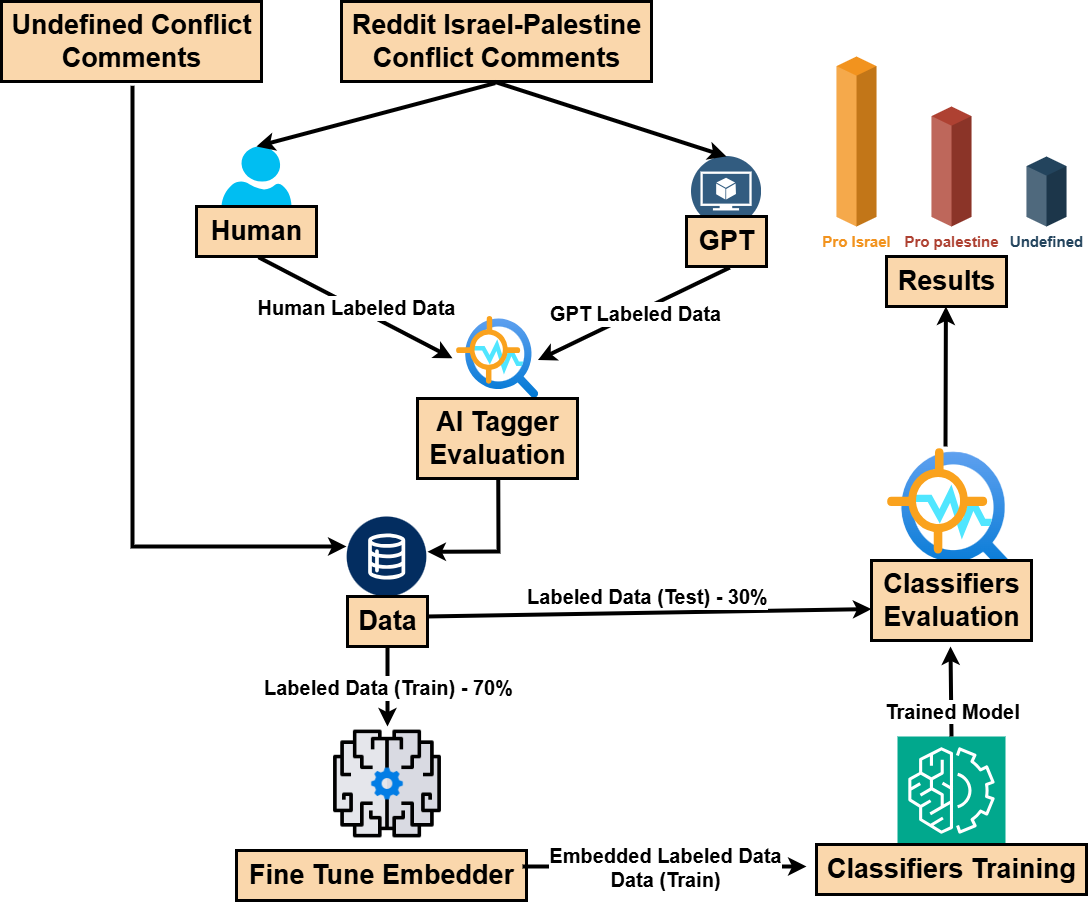
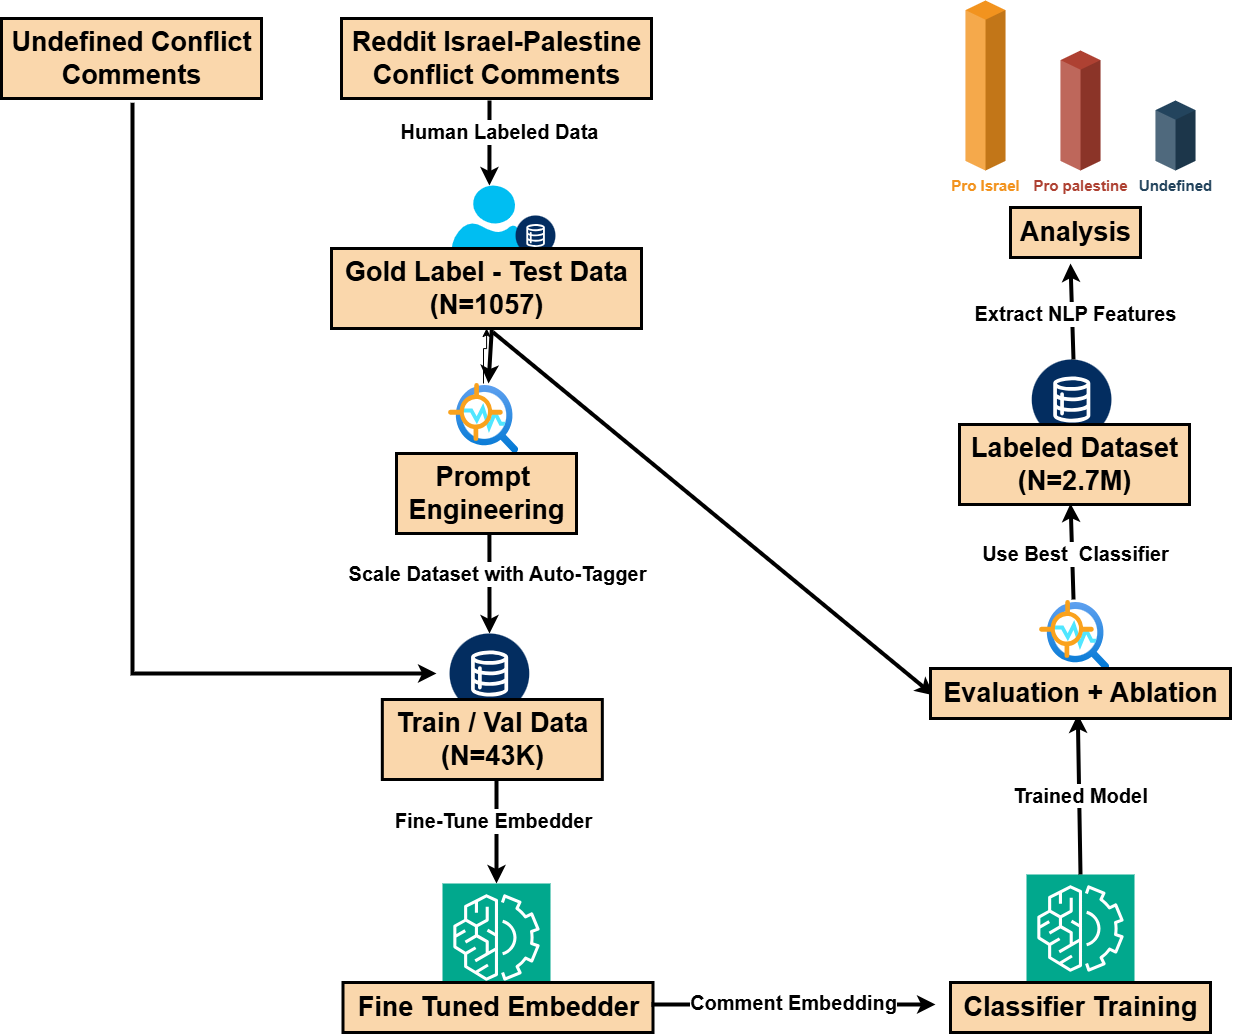
README update

Changed region(s): [[0.0, 0.0, 1.0, 1.0], [0.5312, 0.1242, 0.625, 0.1552]]

diff --git a/README.md b/README.md
@@ -13,13 +13,13 @@ Using the automated tagger as benchmark and combining advanced contextual embedd
 - **Classifier**: Responsible for the flexible initialization and training of a classifier head, designated to train on top of the vectorized dataset (`classifiers.py`).
 - **Customizable Configurations**: Easily adjustable parameters for LLM settings, , dataset settings, best model's configurations, and testing modes. Each major component has it's own configurations file under `Config` folder.
 Note the the current configurations are the ones for the best performing model based on our research.
-- **Analysis**: Within this folder you can find the analysis and optimizations that took place in the process. This folder also offers different flows like a GPU-compatible flow to use trained embedder + classifier on large dataset (in my case, 2.5M records).
+- **Analysis**: Within this folder you can find the analysis and optimizations that took place in the process. This folder also offers different flows like a GPU-compatible flow to use trained embedder + classifier on large dataset (in my case, 2.7M records).
 
 ## Usage
 1. Configure settings in the `Config` files, one for auto-tagger, one for dataset and one for the classifiers:
    - Define file paths.
    - Set parameters (eg. OpenAI engine), augmentation ratio, and test batch size.
-2. Ensure `secret_keys.py` is in place with your OpenAI API key.
+2. Ensure `secret_keys.py` is in place (root repository) with your OpenAI API key.
 
 ### Running the Automated Tagger
 The `llm_tagger.py` module provides functionality to generate labels for an untagged dataset using the OpenAI API. The idea and motivation behind this is to create a sufficient subset to train for a classification task without having to manually tag tens of thousands of textual comments. Run the pipeline through `main.py`:
@@ -27,7 +27,7 @@ The `llm_tagger.py` module provides functionality to generate labels for an unta
 - **Test Mode** (`TEST_MODE = True`):
   - Tests the tagging process on a small, random subset of manually tagged data (`TAGGED_DATA_PATH`) of `TEST_BATCH_SIZE` comments.
   - Outputs an Accuracy and F1 score and saves mismatched predictions for inspection in `OUTPUT_FILE_PATH`.
-  - Ideal for fine-tuning the prompt and verifying the labeling quality.
+  - Ideal for prompt engineering and verifying the labeling quality.
 - **Batch Mode** (`TEST_MODE = False`):
   - Processes the entire untagged dataset (`FULL_DATA_PATH`) using the OpenAI batch API.
   - Outputs a fully labeled dataset in `OUTPUT_FILE_PATH`.
@@ -57,16 +57,8 @@ Set up the environment and install dependencies:
 ```bash
 python -m venv venv
 venv\Scripts\activate
-pip install --upgrade pip
 pip install -r requirements.txt
 ```
-
-## Git Commit Tips
-```
-git add .
-git commit -m "commit message"
-git push -f origin main
-````
 
 ## Final Draft of the Paper
 In this link, you may find the final draft for this paper, hoping it will be published soon:  
